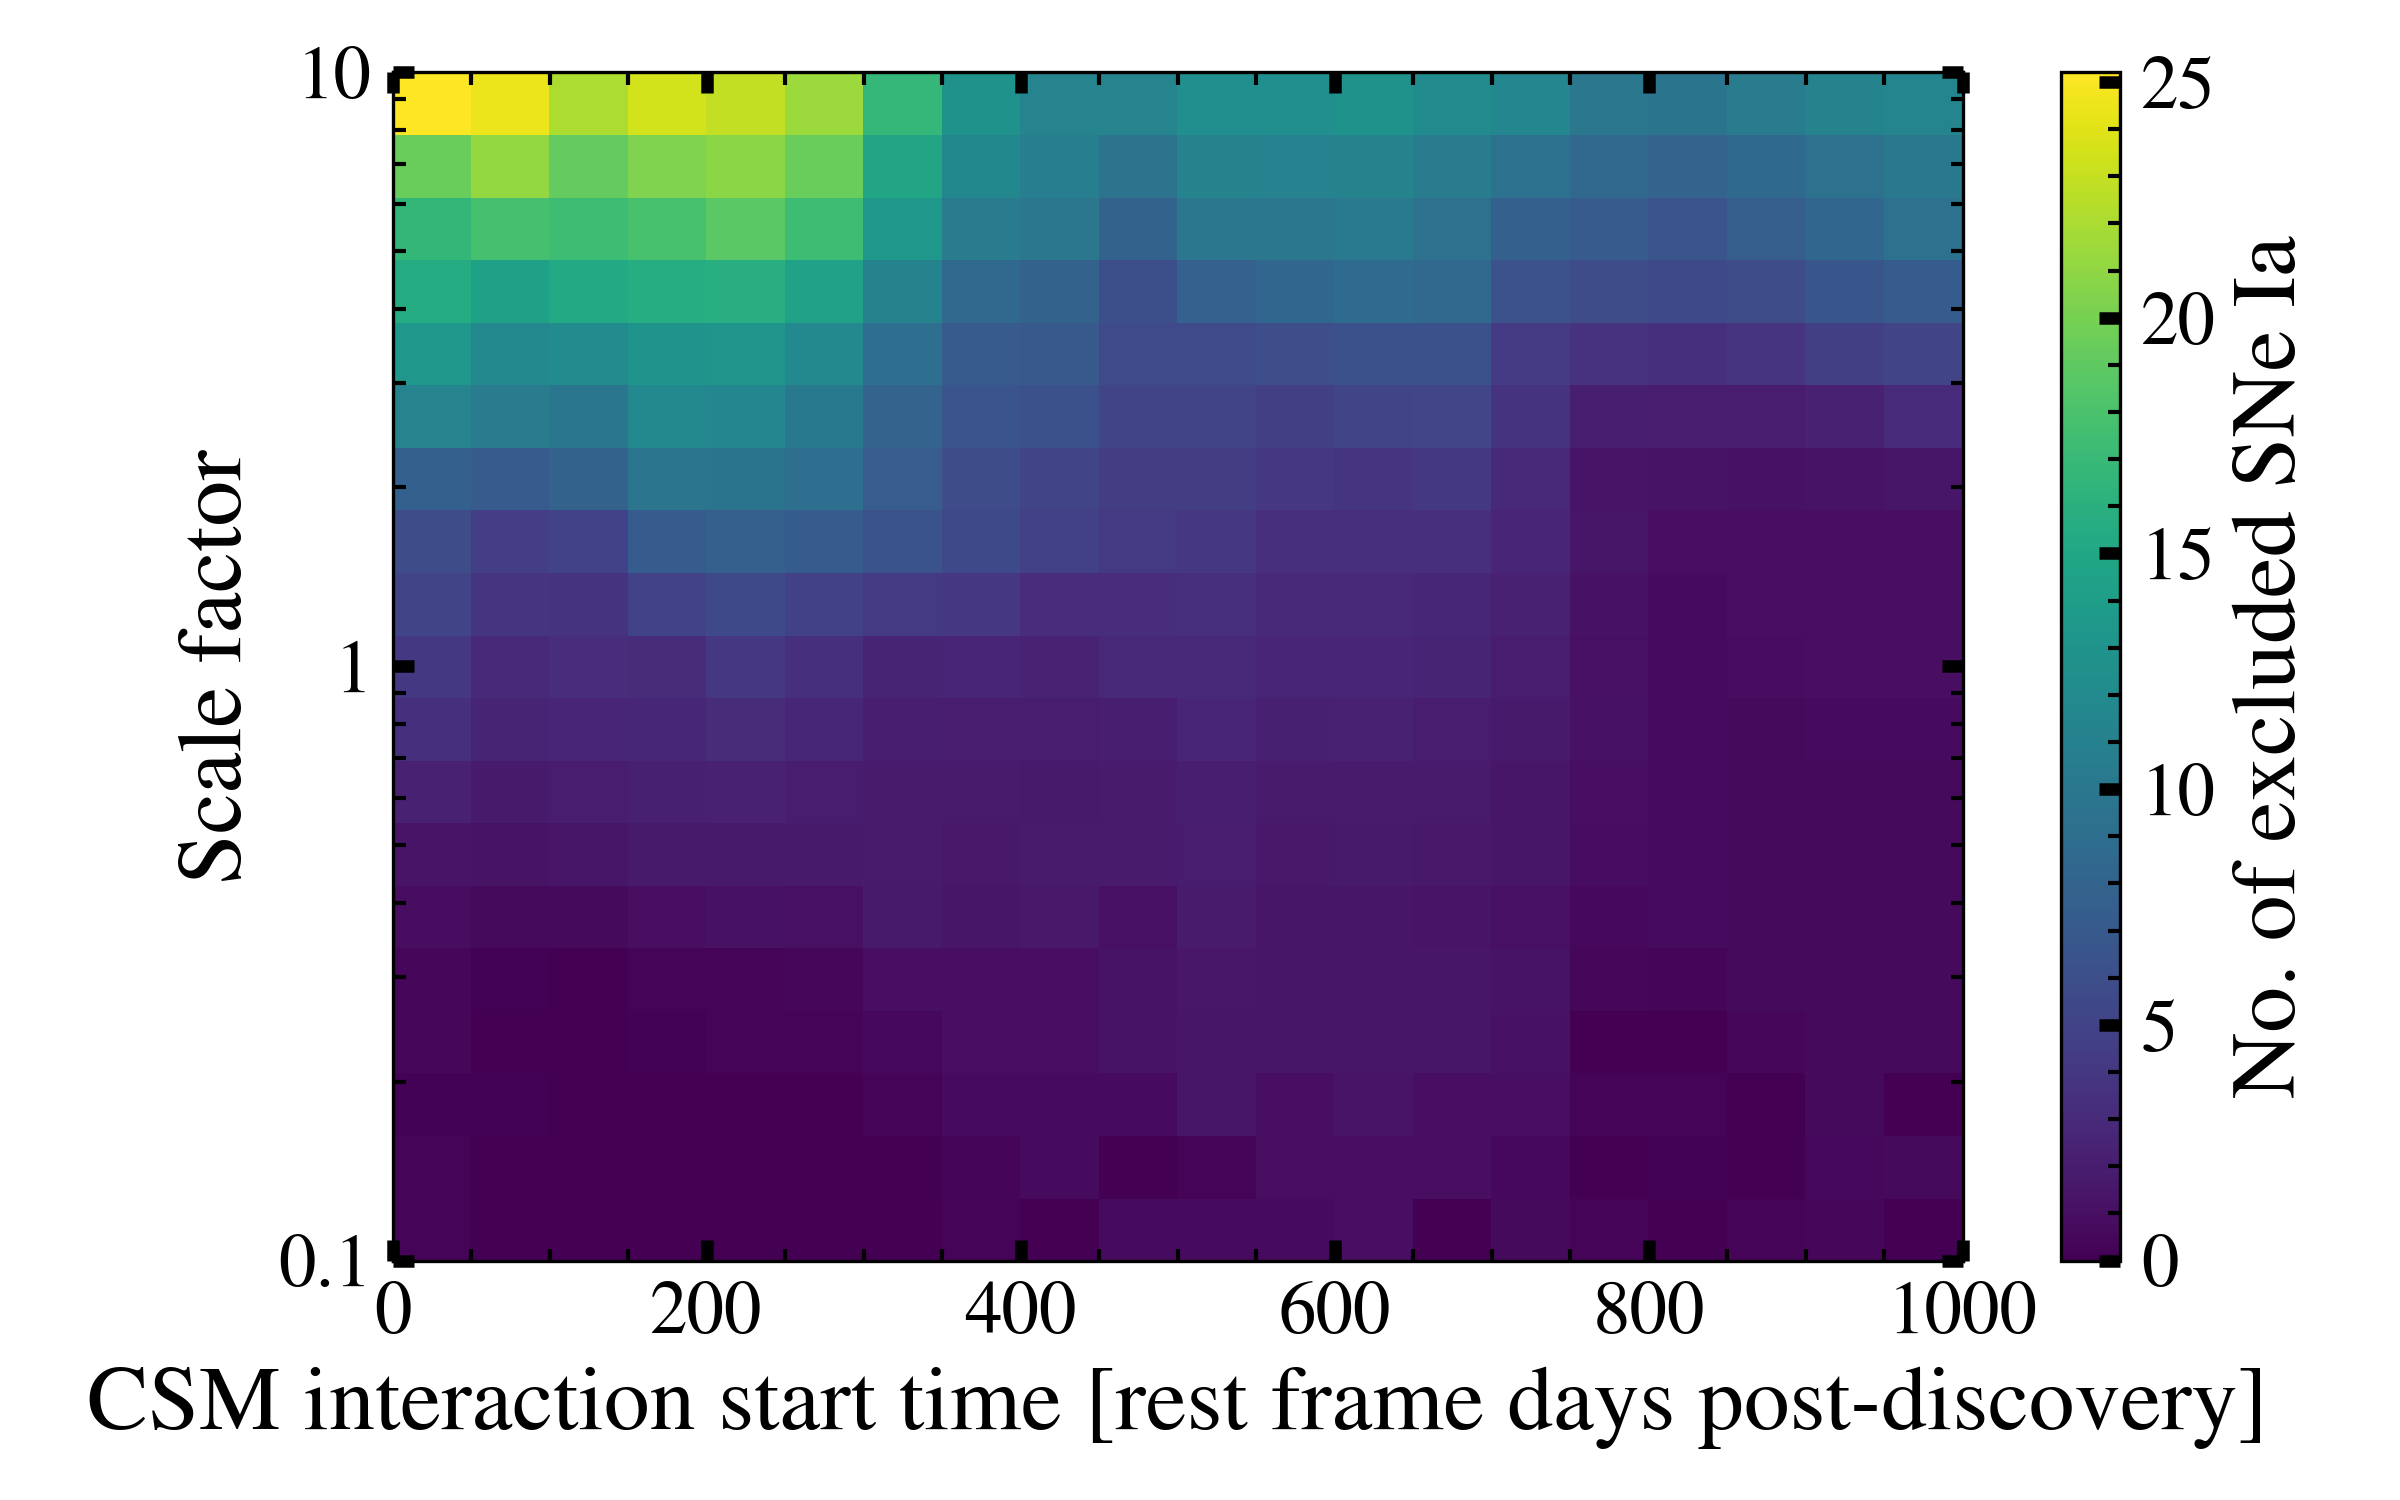
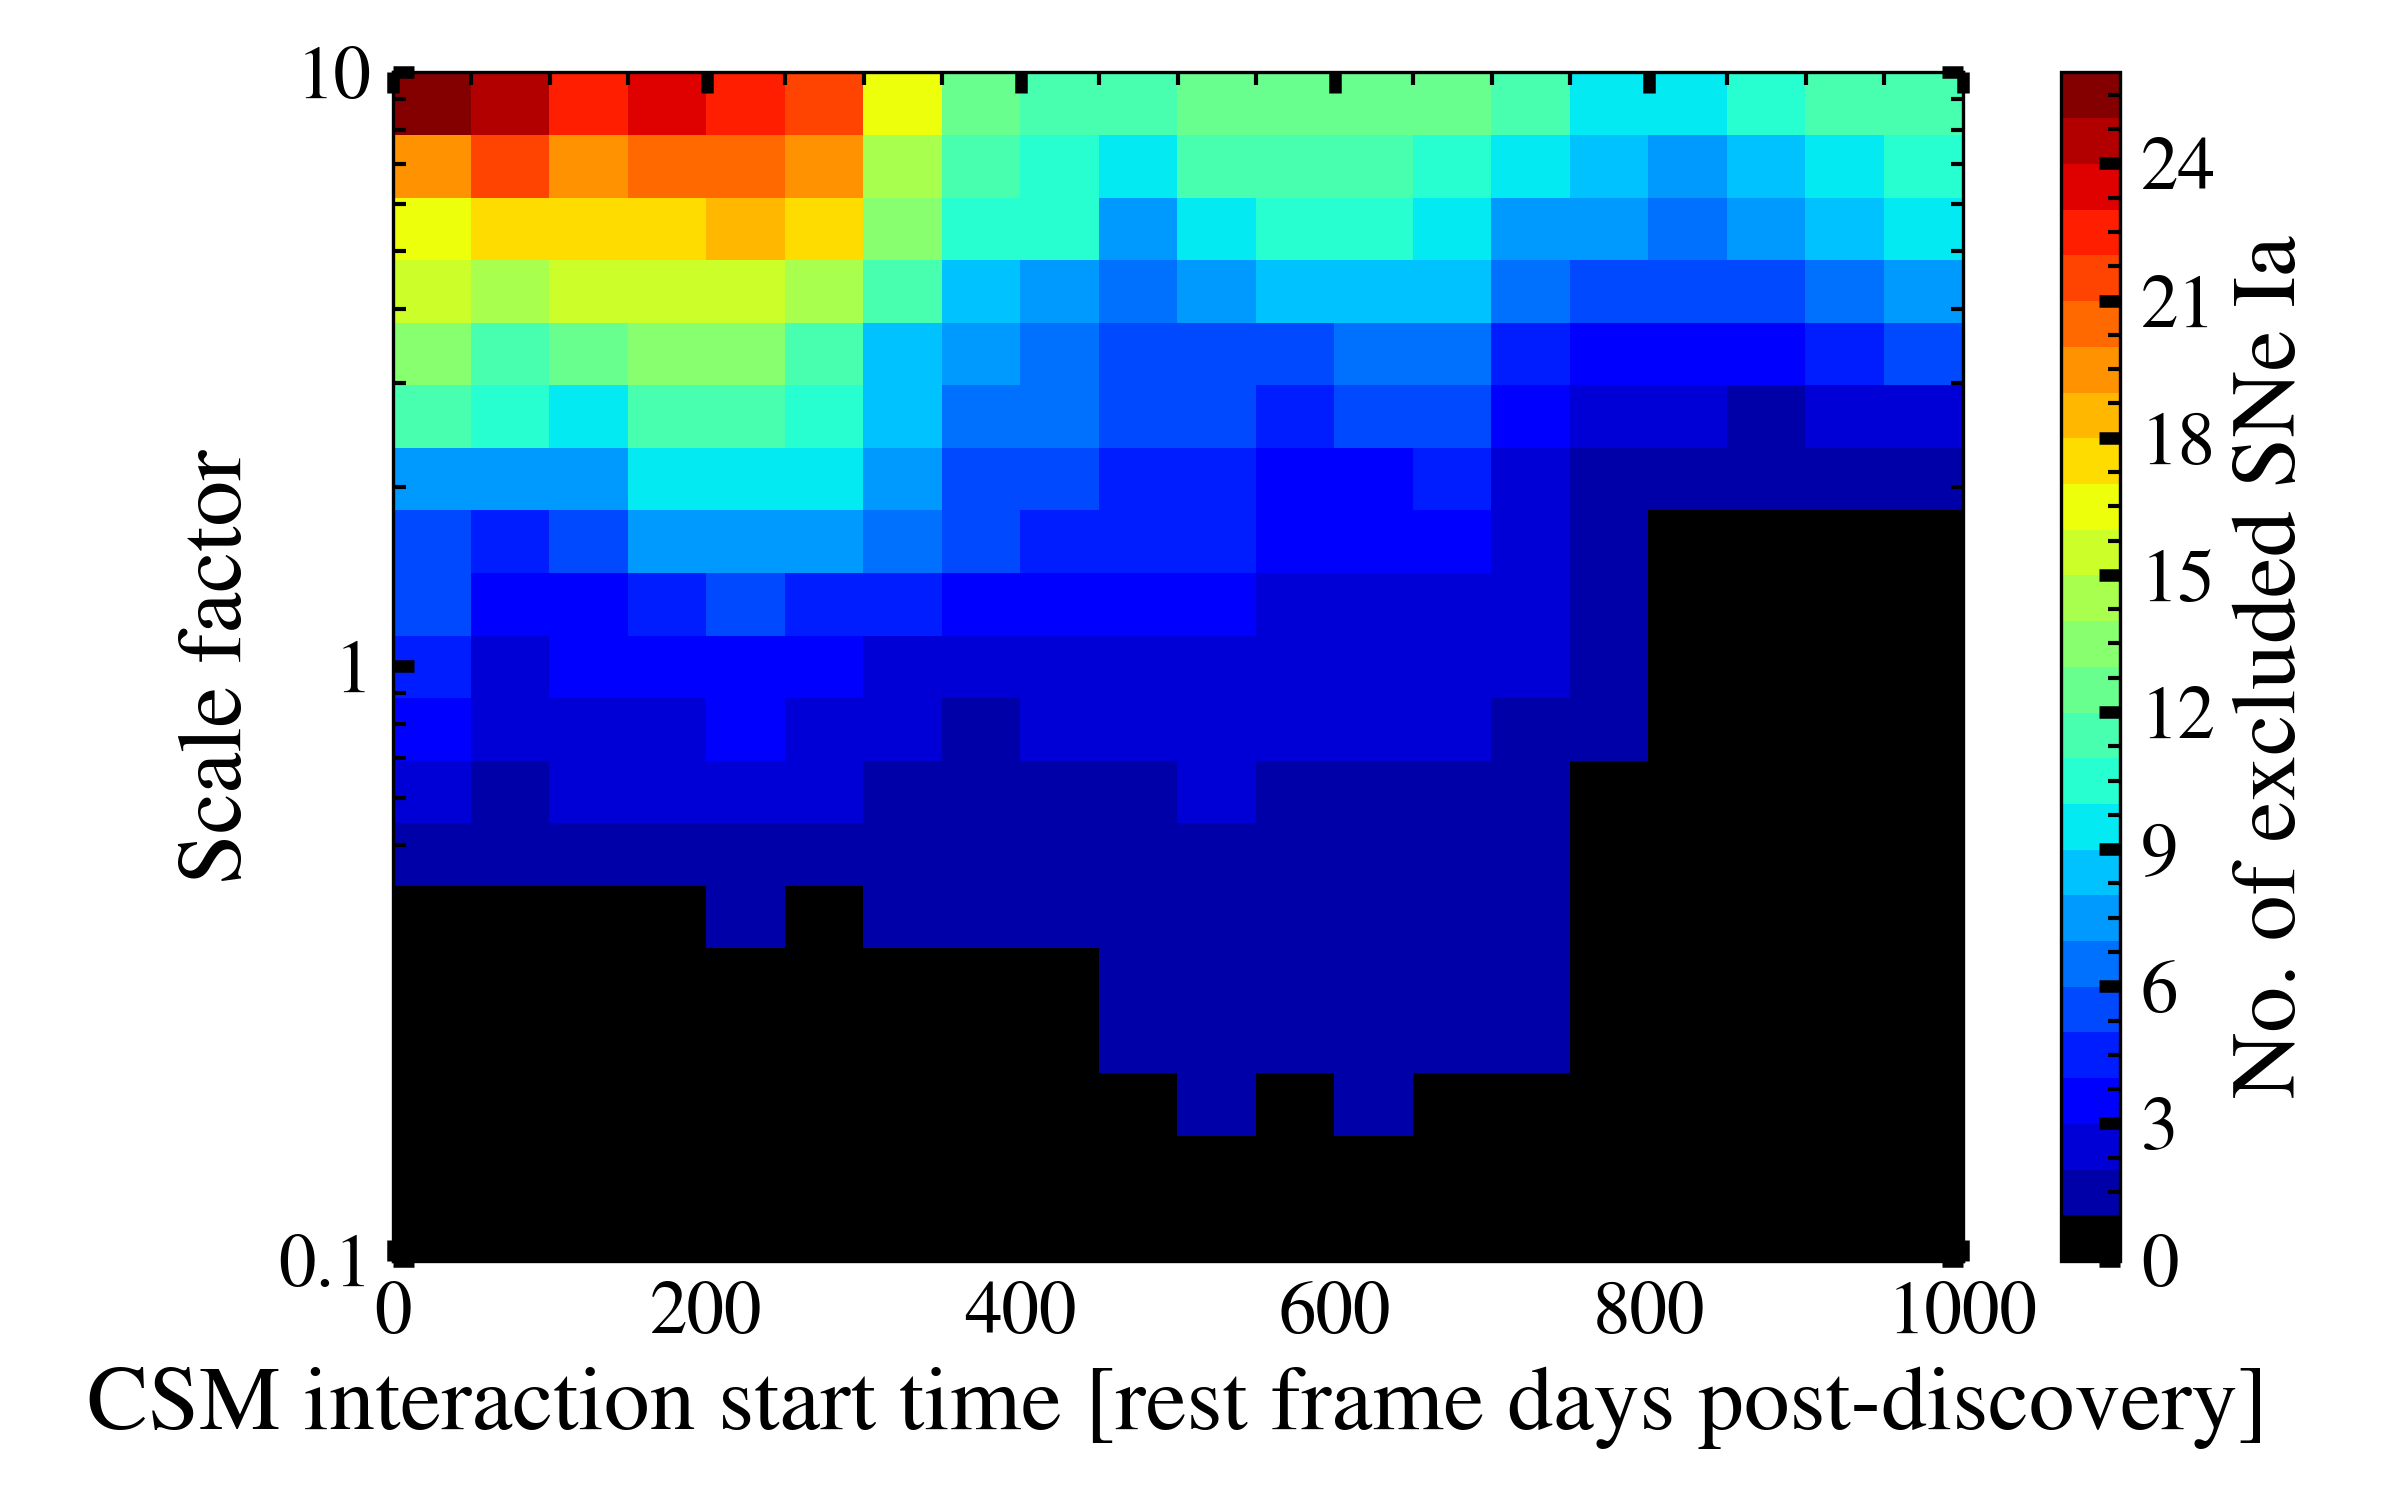
change colormap

diff --git a/plot.py b/plot.py
@@ -2,6 +2,7 @@ from functools import reduce
 from functools import partial
 import matplotlib.pyplot as plt
 from matplotlib.ticker import ScalarFormatter, FuncFormatter
+from matplotlib.colors import LinearSegmentedColormap, BoundaryNorm
 import pandas as pd
 import numpy as np
 from tqdm import tqdm
@@ -39,12 +40,20 @@ def plot(x_edges, y_edges, hist, show=False, output_file='recovery.png'):
     # Flip y-axis
     hist.sort_index(ascending=True, inplace=True)
 
+    # Colormap
+    cmap = plt.cm.jet
+    cmaplist = [cmap(i) for i in range(cmap.N)]
+    cmaplist = [(0, 0, 0, 1)] + cmaplist
+    cmap = LinearSegmentedColormap.from_list('Custom cmap', cmaplist, cmap.N)
+    hist_max = int(np.max(hist.to_numpy()))+1
+    cmap_bounds = np.linspace(0, hist_max, hist_max+1)
+    norm = BoundaryNorm(cmap_bounds, cmap.N)
+
     # Plot
     fig, ax = plt.subplots()
-    pcm = ax.pcolormesh(x_edges, y_edges, hist)
+    pcm = ax.pcolormesh(x_edges, y_edges, hist, cmap=cmap, norm=norm)
     ax.set_yscale('log')
     formatter = FuncFormatter(lambda y, _: '{:.16g}'.format(y))
-    # formatter.set_scientific(False)
     ax.yaxis.set_major_formatter(formatter)
     ax.set_xlabel('CSM interaction start time [rest frame days post-discovery]')
     ax.set_ylabel('Scale factor')
